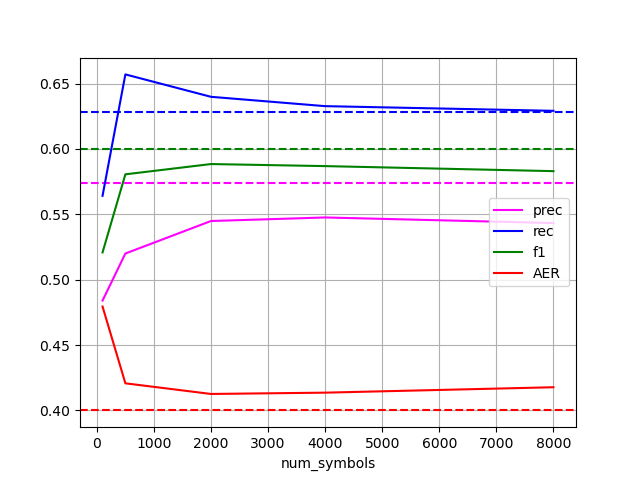
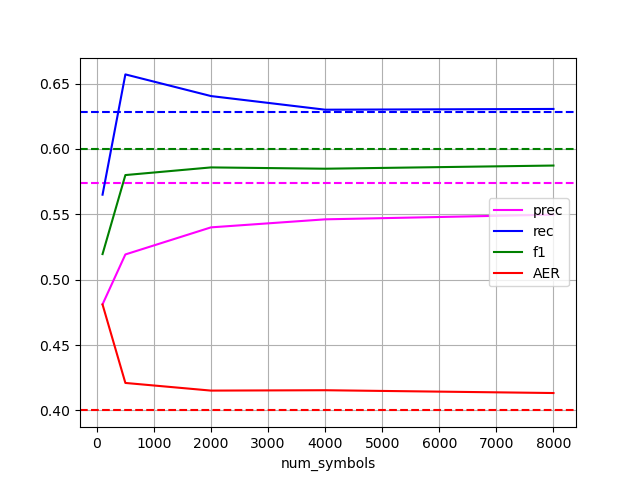
added info on results

diff --git a/README.md b/README.md
@@ -5,8 +5,11 @@ Master thesis repo
 ## tasks
 
 * [X] do the same dropout test 3,5,10 times, check scores, average scores. because dropout is different each time. maybe one sample is really good
-* [X] average dropouts
+  * with fewer symbols there's better recall than baseline, much worse precision. f1 slightly worse
+  * with more symbols, recall ~ baseline, precision stabilizes 2.5% lower
+  * similar scores for average of 3 dropout files, 5, 7, or 10
 * [X] make a training data with 100k sentences by putting 10 samples together and then look at the quality of their aggregation. put samples one after another, get alignments, that way we get a bigger trainset.
+  * precision 30% worse than baseline, recall ~12% worse than baseline
 * [ ] http://www.timoschick.com/paper%20picks/word%20level%20semantics/2020/04/14/bpe-is-suboptimal-for-lm-pretraining.html
 * [ ] https://arxiv.org/abs/1910.07181
 * [ ] https://arxiv.org/abs/2001.07676
